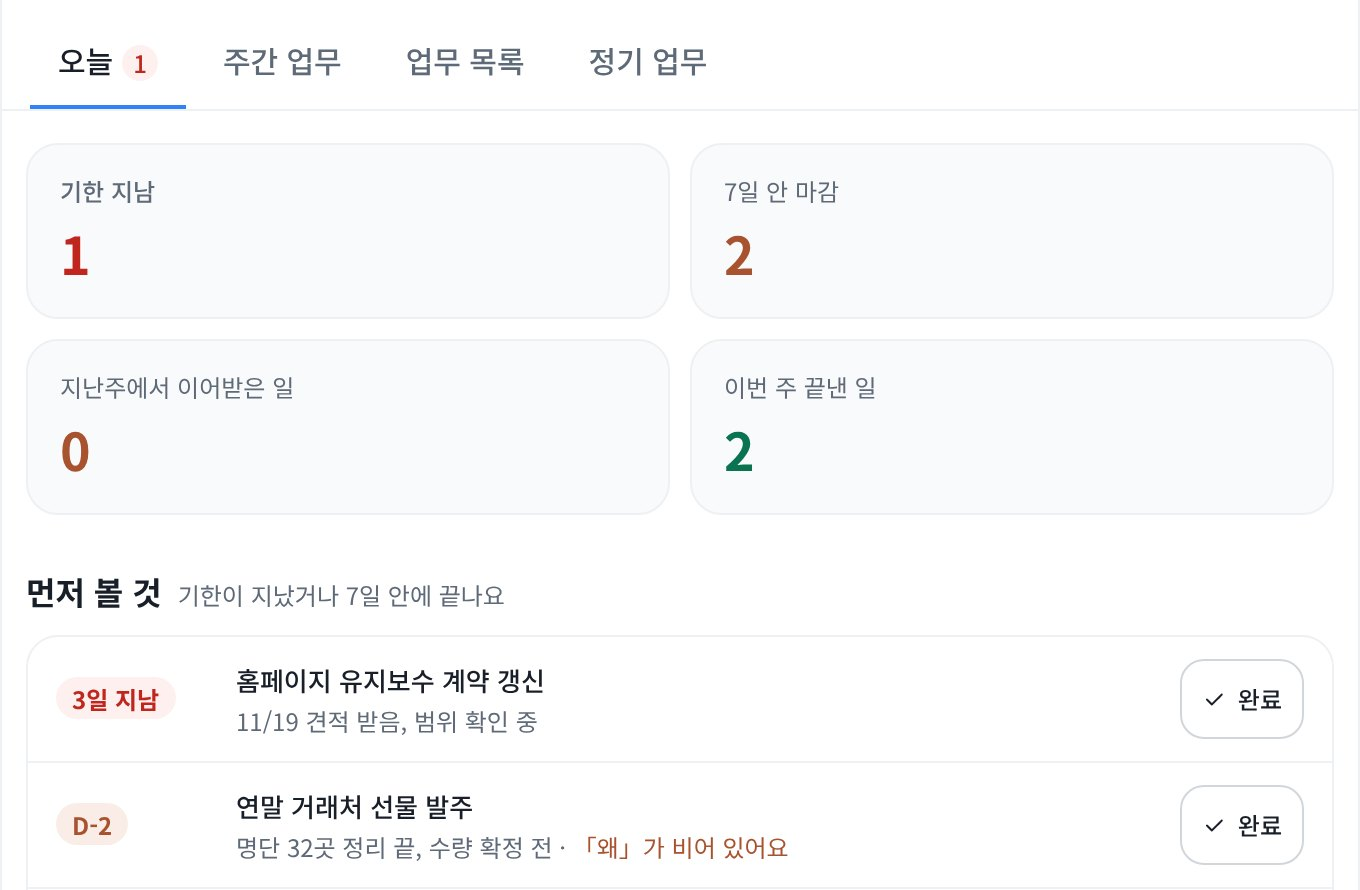
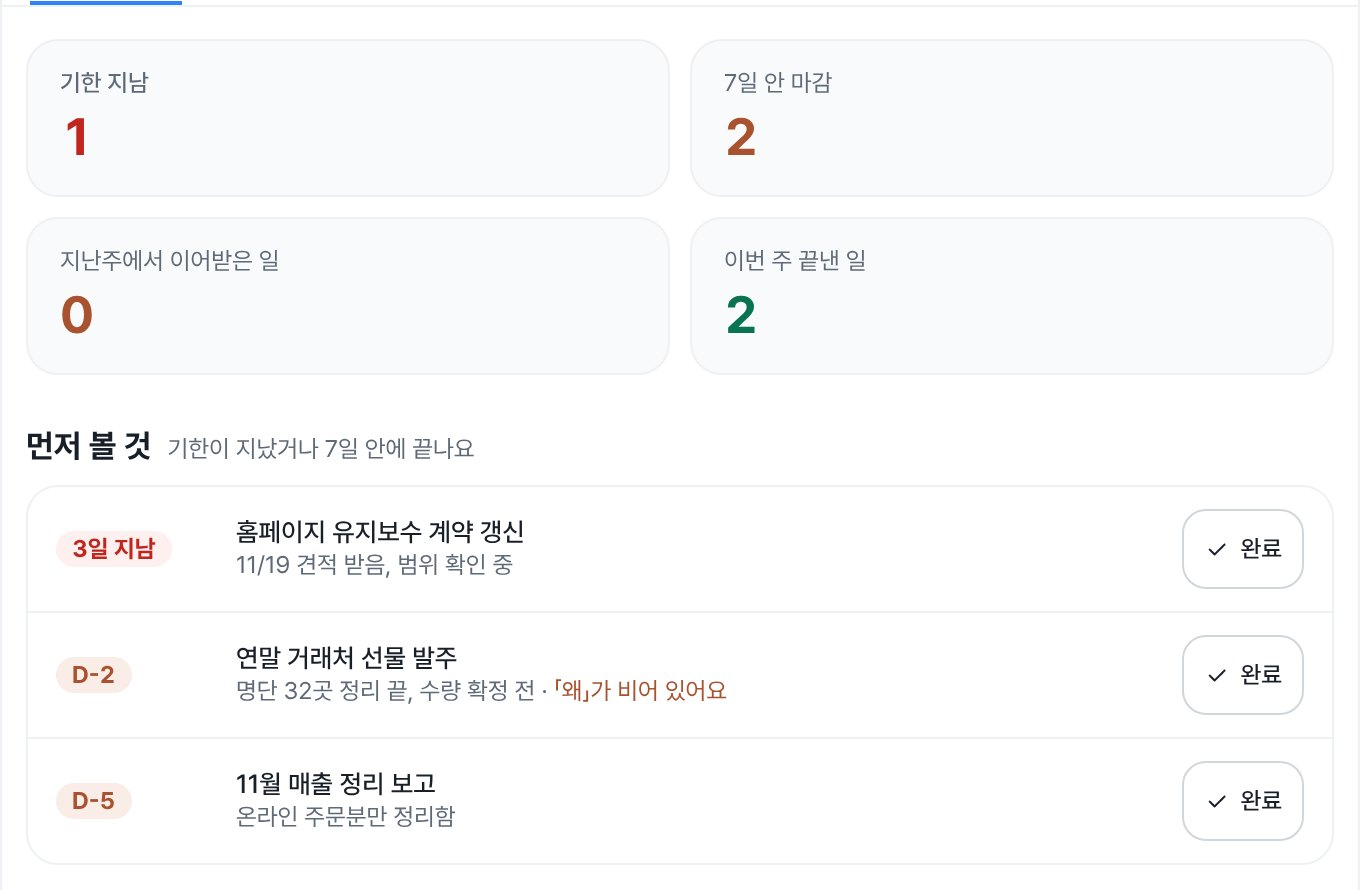
글꼴을 Pretendard 로, 문장 안 링크 누르는 자리 넓힘

diff --git a/log/index.html b/log/index.html
@@ -59,16 +59,12 @@
 
   <h2>가장 최근 점검 <small>2026년 11월 28일</small></h2>
   <div class="check">
-    <div><span>죽은 링크</span><b>0</b><small>17쪽, 안쪽 링크 195개를 다 확인함</small></div>
+    <div><span>죽은 링크</span><b>0</b><small>18쪽, 안쪽 링크 311개를 다 확인함</small></div>
     <div><span>휴대폰에서 가로로 넘침</span><b>0</b><small>주요 9쪽, 폭 390px</small></div>
     <div><span>화면 오류</span><b>0</b><small>주요 9쪽</small></div>
     <div><span>글자 대비 4.5 아래</span><b>0</b><small>주요 9쪽</small></div>
   </div>
-  <p class="sec-note" style="text-align:left;margin:14px 0 0;max-width:none">아직 남은 것이 일곱 곳 있어요. 작아서 다음에 그 쪽을 손볼 때 고쳐요.</p>
-  <ul class="left">
-    <li>휴대폰에서 누르기 작은 링크 네 곳 (메인 문의 칸의 주소 세 곳, 팀 업무 화면 아래 링크 한 곳)</li>
-    <li>한 줄이 조금 긴 곳 세 곳 (메인 소개, 자동화 검토 안내, 답변집 안내)</li>
-  </ul>
+  <p class="sec-note" style="text-align:left;margin:14px 0 0;max-width:none">아직 남은 것이 세 곳 있어요. 한 줄이 조금 긴 곳이에요(메인 소개, 자동화 검토 안내, 답변집 안내). 그 쪽을 손볼 때 고쳐요.</p>
 
   <h2>이렇게 관리해요</h2>
   <ul class="how">
@@ -89,6 +85,8 @@
     <li><b>모든 쪽의 위 메뉴와 맨 아래를 하나로 맞췄어요</b>쪽마다 메뉴가 달라서 「만든 것」이나 이 관리 기록으로 가는 길이 어떤 쪽에는 없었어요. 이제 어느 쪽에서든 같은 자리에 있어요.</li>
     <li><b>개인정보 안내 쪽을 만들었어요</b>무엇을 세고 무엇을 받지 않는지 한 쪽에 적었어요. 맨 아래에서 갈 수 있어요.</li>
     <li><b>첫 화면에 실제 화면 한 장과 진행 순서를 넣었어요</b>글만 있어서 무엇을 만드는 곳인지 바로 보이지 않았어요. 팀 업무 화면을 머리말 옆에 두고, 문의하면 어떤 순서로 진행되는지 세 단계로 적었어요. 같은 말을 되풀이하던 맨 아래 띠는 뺐어요.</li>
+    <li><b>글꼴을 바꿨어요</b>글자가 굵고 넓어서 화면이 투박해 보였어요. 조금 더 단정한 글꼴(Pretendard)로 바꿨어요. 무료로 쓸 수 있는 글꼴이에요.</li>
+    <li><b>휴대폰에서 문장 안의 링크도 누르기 쉽게 했어요</b>남아 있던 작은 링크 네 곳을 고쳤어요. 줄 사이는 그대로 두고 누르는 자리만 넓혔어요.</li>
   </ul></div>
 
   <div class="day"><time datetime="2026-11-27">11월 27일</time><ul>

diff --git a/tokens.css b/tokens.css
@@ -5,8 +5,8 @@
    그 다음 값은 var(--이름) 으로 참조.  절대 하드코딩 색을 쓰지 말 것.
    ============================================================ */
 
-/* ---- 폰트 (Noto Sans KR: 부드럽고 인간적, 무료) ---- */
-@import url("https://fonts.googleapis.com/css2?family=Noto+Sans+KR:wght@400;500;700&display=swap");
+/* ---- 폰트 (Pretendard: 단정하고 숫자·영문이 한글과 잘 어울림. SIL OFL 1.1, 무료) — 2026-11-28 Noto Sans KR 에서 바꿈 ---- */
+@import url("https://cdn.jsdelivr.net/gh/orioncactus/pretendard@v1.3.9/dist/web/variable/pretendardvariable-dynamic-subset.min.css");
 
 :root {
   /* ===== 색: 브랜드 / 행동 (파랑은 "누를 수 있는 것"에만) ===== */
@@ -48,7 +48,7 @@
   --danger-strong:     #c0261e;
 
   /* ===== 타이포 ===== */
-  --font-sans: "Noto Sans KR", "Pretendard", -apple-system, "Malgun Gothic", "맑은 고딕", sans-serif;
+  --font-sans: "Pretendard Variable", "Pretendard", -apple-system, BlinkMacSystemFont, "Apple SD Gothic Neo", "Noto Sans KR", "Malgun Gothic", "맑은 고딕", sans-serif;
   --font-mono: "JetBrains Mono", "D2Coding", Consolas, monospace;
 
   --fs-display:  30px;  /* 화면당 주인공 숫자 하나 */

diff --git a/works/index.html b/works/index.html
@@ -22,7 +22,7 @@
 <meta name="twitter:description" content="리플로가 만든 것을 예시 자료로 직접 돌려 볼 수 있어요. 정기 보고, 자료 정리, 검산, 안내 메일. 틀릴 뻔한 곳을 어떻게 잡았는지도 같이 적었어요.">
 <meta name="twitter:image" content="https://refloworks.com/og.png">
 <link rel="preconnect" href="https://fonts.gstatic.com" crossorigin>
-<link rel="stylesheet" href="https://fonts.googleapis.com/css2?family=JetBrains+Mono:wght@400;500;600&family=Noto+Sans+KR:wght@400;500;700&display=swap">
+<link rel="stylesheet" href="https://fonts.googleapis.com/css2?family=JetBrains+Mono:wght@400;500;600&display=swap">
 <link rel="stylesheet" href="/tokens.css">
 <link rel="stylesheet" href="/marketing.css">
 <link rel="stylesheet" href="https://cdn.jsdelivr.net/npm/@tabler/icons-webfont@3.24.0/dist/tabler-icons.min.css">

diff --git a/index.html b/index.html
@@ -24,7 +24,7 @@
 <meta name="twitter:description" content="한 사람이 여러 일을 맡고 있는 회사에서 자주 끊기는 곳을 정리해요. 인수인계서 양식, 자동화 검토 같은 무료 도구와 운영 노트.">
 <meta name="twitter:image" content="https://refloworks.com/og.png">
 <link rel="preconnect" href="https://fonts.gstatic.com" crossorigin>
-<link rel="stylesheet" href="https://fonts.googleapis.com/css2?family=JetBrains+Mono:wght@400;500;600&family=Noto+Sans+KR:wght@400;500;700&display=swap">
+<link rel="stylesheet" href="https://fonts.googleapis.com/css2?family=JetBrains+Mono:wght@400;500;600&display=swap">
 <link rel="stylesheet" href="tokens.css">
 <link rel="stylesheet" href="marketing.css">
 <link rel="stylesheet" href="https://cdn.jsdelivr.net/npm/@tabler/icons-webfont@3.24.0/dist/tabler-icons.min.css">

diff --git a/marketing.css b/marketing.css
@@ -165,3 +165,8 @@ footer.site-foot{display:block;max-width:none;margin:0}
 .ds-steps li::before{content:counter(st);display:block;margin-bottom:var(--sp-1);font-family:var(--font-mono);font-size:var(--fs-caption);color:var(--text-tertiary)}
 .ds-steps li b{display:block;margin-bottom:2px;font-size:var(--fs-body);font-weight:var(--fw-medium);color:var(--text-primary)}
 @media(max-width:720px){.ds-steps{grid-template-columns:1fr;gap:var(--sp-2)}}
+
+/* 휴대폰: 문장 안 링크도 누르는 높이 40px. 줄 사이는 그대로 두고 누르는 자리만 넓힌다 (2026-11-28) */
+@media(max-width:720px){
+  .row dd a, .sec-note a, .privacy a, .foot-hint a, p.sec-note a, .wrap p a, .wrap li a, .small-limits a{padding:13px 0}
+}
